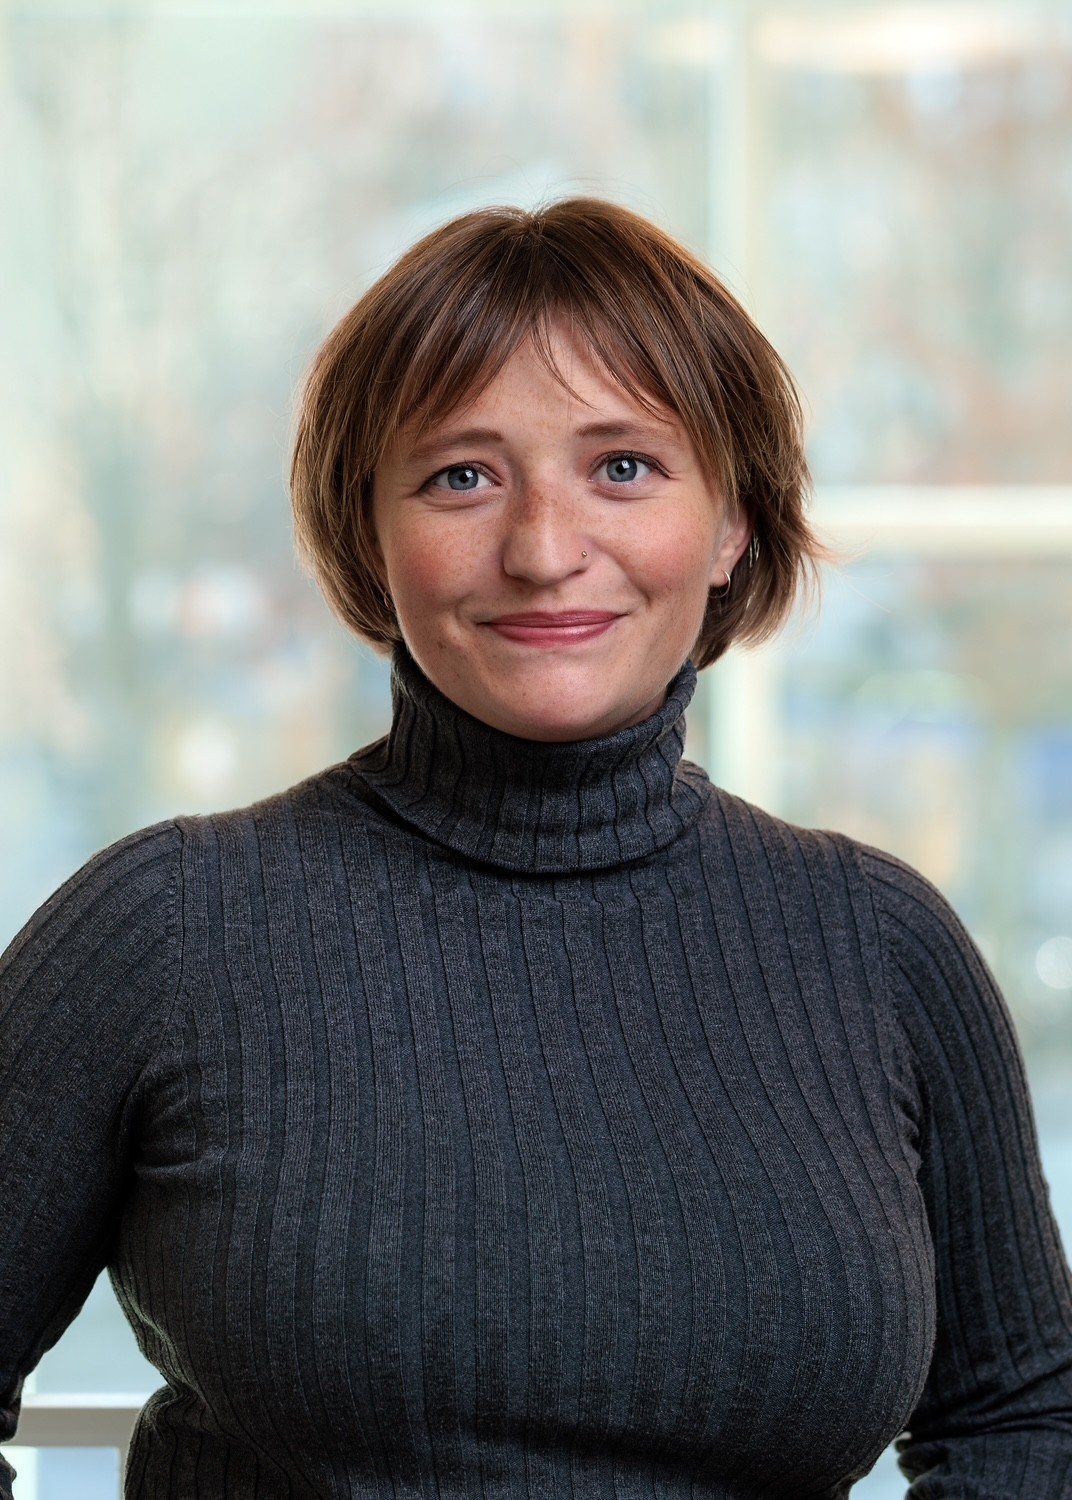
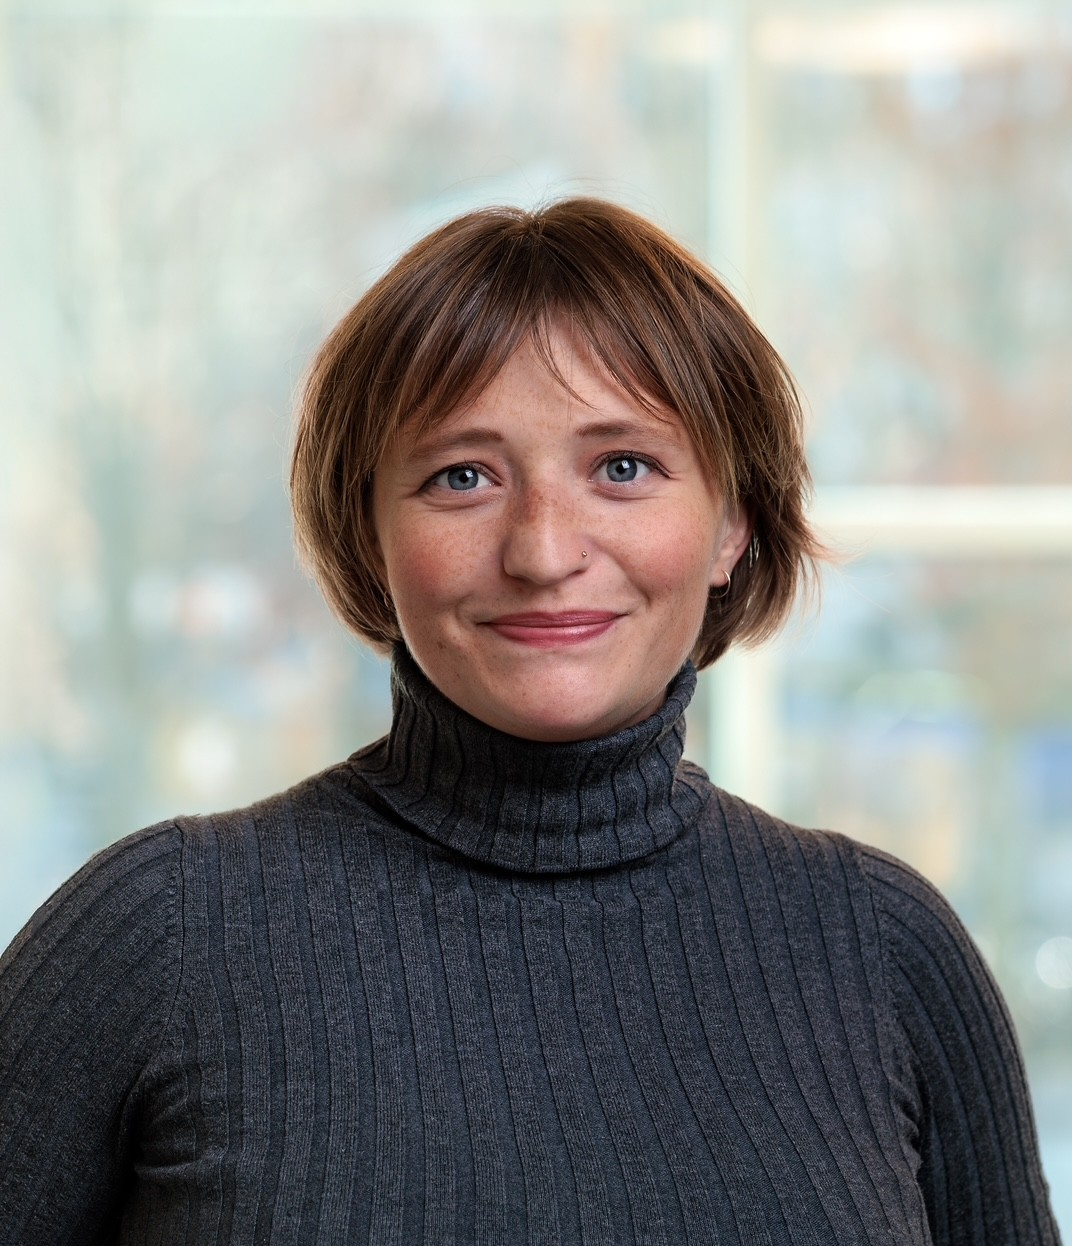
Update everything

diff --git a/docs/publications.html b/docs/publications.html
@@ -148,7 +148,6 @@ div.csl-indent {
   <li><a href="#peer-reviewed-publications" id="toc-peer-reviewed-publications" class="nav-link active" data-scroll-target="#peer-reviewed-publications">Peer-reviewed publications</a></li>
   <li><a href="#working-papers" id="toc-working-papers" class="nav-link" data-scroll-target="#working-papers">Working papers</a></li>
   <li><a href="#datasets-and-pre-registrations" id="toc-datasets-and-pre-registrations" class="nav-link" data-scroll-target="#datasets-and-pre-registrations">Datasets and Pre-Registrations</a></li>
-  <li><a href="#research-in-progress" id="toc-research-in-progress" class="nav-link" data-scroll-target="#research-in-progress">Research in progress</a></li>
   </ul>
 </nav>
     </div>
@@ -187,8 +186,9 @@ Yehle, Lauren, Aksel Sundström, Patrik Michaelsen, and Sverker C. Jagers. 2026.
 </section>
 <section id="working-papers" class="level2">
 <h2 class="anchored" data-anchor-id="working-papers">Working papers</h2>
-<p>Jagers, Sverker C., <strong>Lauren Yehle</strong>, Daniel Lindvall, Erik Elwing, and Niklas Harring. 2024. “Exploring How Specification of Revenue Use Shifts Attitudes Towards Climate Motivated Food Taxes.” Under review at <em>Food Policy</em>. https://doi.org/10.2139/ssrn.5060270. (under review at Food Policy)</p>
-<p>Metheney, Erica Ann, and <strong>Lauren Yehle</strong>. 2025. “Exploring the Potential Role of Generative AI in the TRAPD Procedure for Survey Translation.” arXiv. https://doi.org/10.48550/arXiv.2411.14472. (under review at Journal of Survey Statistics and Methodology)</p>
+<p>Constantino, Sara, Alicia Cooperman, Jessica Geiger, Manuela Munoz, Aksel Sundström, Ziqian Xia, <strong>Lauren Yehle</strong> ``The Political Costs and Benefits of Natural Disasters.” Under review at <em>American Political Science Review</em></p>
+<p>Jagers, Sverker C., <strong>Lauren Yehle</strong>, Daniel Lindvall, Erik Elwing, and Niklas Harring. 2024. “Exploring How Specification of Revenue Use Shifts Attitudes Towards Climate Motivated Food Taxes.” Under review at <em>Food Policy</em>. https://doi.org/10.2139/ssrn.5060270.</p>
+<p>Metheney, Erica Ann, and <strong>Lauren Yehle</strong>. 2025. “Exploring the Potential Role of Generative AI in the TRAPD Procedure for Survey Translation.” arXiv. https://doi.org/10.48550/arXiv.2411.14472.</p>
 <p>Metheney, Erica Ann, and <strong>Lauren Yehle</strong>. 2025. “Generative AI as a Safety Net for Survey Question Refinement.” arXiv. https://doi.org/10.48550/arXiv.2509.08702.</p>
 </section>
 <section id="datasets-and-pre-registrations" class="level2">
@@ -196,13 +196,6 @@ Yehle, Lauren, Aksel Sundström, Patrik Michaelsen, and Sverker C. Jagers. 2026.
 <p>Yehle, L., Sundström, A., Michaelsen, P., &amp; Jagers, S. (2025, December 23). Public support for military conservation. Retrieved from http://osf.io/kmazg</p>
 <p>Yehle, L., &amp; Michaelsen, P. (2024, October 25). Ethical Justification Effects on Environmental Policy Acceptance. Retrieved from http://osf.io/739pg</p>
 <p>Erica Ann Metheney; Lauren Yehle, 2024, “Replication Data for: Exploring Generative AI’s Role in Preparing Surveys for Translation”, https://doi.org/10.7910/DVN/HFT8TD, Harvard Dataverse, V1</p>
-</section>
-<section id="research-in-progress" class="level2">
-<h2 class="anchored" data-anchor-id="research-in-progress">Research in progress</h2>
-<ul>
-<li>Political feasibility of compensation for environmental policy.</li>
-<li>Distributional fairness and environmental policy support.</li>
-</ul>
 
 
 </section>

diff --git a/docs/teaching.html b/docs/teaching.html
@@ -127,7 +127,7 @@ ul.task-list li input[type="checkbox"] {
   <ul>
   <li><a href="#teaching-and-supervision" id="toc-teaching-and-supervision" class="nav-link active" data-scroll-target="#teaching-and-supervision">Teaching and Supervision</a>
   <ul class="collapse">
-  <li><a href="#lectures" id="toc-lectures" class="nav-link" data-scroll-target="#lectures">Lectures</a>
+  <li><a href="#teaching-duties" id="toc-teaching-duties" class="nav-link" data-scroll-target="#teaching-duties">Teaching duties</a>
   <ul class="collapse">
   <li><a href="#environmental-politics-in-theory-and-practice" id="toc-environmental-politics-in-theory-and-practice" class="nav-link" data-scroll-target="#environmental-politics-in-theory-and-practice"><em>Environmental Politics in Theory and Practice</em></a></li>
   <li><a href="#seascape-governance-in-times-of-global-change" id="toc-seascape-governance-in-times-of-global-change" class="nav-link" data-scroll-target="#seascape-governance-in-times-of-global-change"><em>Seascape Governance in Times of Global Change</em></a></li>
@@ -162,8 +162,8 @@ ul.task-list li input[type="checkbox"] {
 <section id="teaching-and-supervision" class="level1">
 <h1>Teaching and Supervision</h1>
 <p>I teach within the Department of Political Science at the University of Gothenburg at the Bachelors and Masters levels. I also teach interdisciplinary courses in the Masters Program Sea and Society affiliated with Department of Marine Sciences at the Faculty of Science and Technology.</p>
-<section id="lectures" class="level2">
-<h2 class="anchored" data-anchor-id="lectures">Lectures</h2>
+<section id="teaching-duties" class="level2">
+<h2 class="anchored" data-anchor-id="teaching-duties">Teaching duties</h2>
 <section id="environmental-politics-in-theory-and-practice" class="level3">
 <h3 class="anchored" data-anchor-id="environmental-politics-in-theory-and-practice"><em>Environmental Politics in Theory and Practice</em></h3>
 <p><em>Bachelor’s level, Department of Political Science, University of Gothenburg</em></p>
@@ -175,7 +175,7 @@ ul.task-list li input[type="checkbox"] {
 <h3 class="anchored" data-anchor-id="seascape-governance-in-times-of-global-change"><em>Seascape Governance in Times of Global Change</em></h3>
 <p><em>Master’s level, Department of Marine Sciences, University of Gothenburg</em></p>
 <ul>
-<li><strong>Politics of Climate Change</strong> <em>(Spring 2026)</em></li>
+<li><strong>Politics of Climate Change</strong> — Lecture <em>(Spring 2026)</em></li>
 </ul>
 </section>
 </section>
@@ -184,10 +184,11 @@ ul.task-list li input[type="checkbox"] {
 <p>I supervise master’s theses within political science, primarily in the areas of environmental politics and public opinion.</p>
 <table class="caption-top table">
 <colgroup>
-<col style="width: 26%">
-<col style="width: 41%">
-<col style="width: 17%">
-<col style="width: 14%">
+<col style="width: 23%">
+<col style="width: 35%">
+<col style="width: 15%">
+<col style="width: 12%">
+<col style="width: 12%">
 </colgroup>
 <thead>
 <tr class="header">
@@ -195,6 +196,7 @@ ul.task-list li input[type="checkbox"] {
 <th>Thesis Title</th>
 <th>Year</th>
 <th>Outcome</th>
+<th>Co-Supervisor</th>
 </tr>
 </thead>
 <tbody>
@@ -203,6 +205,7 @@ ul.task-list li input[type="checkbox"] {
 <td>Not Set in Concrete: An Experimental Vignette Study Testing if Conservation Policy Support is Robust to Trade-offs in Housing.</td>
 <td>2025</td>
 <td>Pass with Distinction</td>
+<td>Sverker C. Jagers</td>
 </tr>
 </tbody>
 </table>

diff --git a/docs/about.html b/docs/about.html
@@ -129,9 +129,9 @@ ul.task-list li input[type="checkbox"] {
 
 
 
-<p>This section needs to be updated… I am a PhD student in Political Science at the University of Gothenburg, Sweden. My research examines the political feasibility of environmental policy, with a particular focus on how compensation can increase support for ambitious climate action.</p>
-<p>My doctoral research investigates compensation from both elite and public perspectives. One project examines whether compensating industries that oppose climate policy can improve the political feasibility of climate reforms. A second explores how perceptions of deservingness shape public support for compensating groups that may bear the costs of environmental policy, such as unemployed workers and affected local communities.</p>
-<p>Alongside my dissertation, I work with Professor Aksel Sundström on the ERC-funded project <em>FEM-Lead</em>, conducting a meta-analysis of how natural disasters influence politically relevant outcomes, with a focus on electoral incumbency and institutional trust.</p>
+<p>This section needs to be updated… I am a PhD student in Political Science at the University of Gothenburg, Sweden. My research examines the political feasibility of environmental policy, with a particular focus on how compensation can increase support for ambitious climate and biodiversity action.</p>
+<p>My doctoral research investigates attitudes towards compensation from both elite and public perspectives. One project examines whether compensating industries that oppose climate policy can improve the political feasibility of climate reforms. A second explores how perceptions of deservingness shape public support for compensating groups that may bear the costs of environmental policy, such as unemployed workers and affected local communities.</p>
+<p>Alongside my dissertation, I work with Professor Aksel Sundström on the ERC-funded project <em>FEM-Lead</em>, conducting a meta-analysis of how natural disasters influence politically relevant outcomes, specifically electoral incumbency and institutional trust.</p>
 <p>Before beginning my PhD in 2025, I worked for nearly three years as a research assistant in the Departments of Political Science and Economics at the University of Gothenburg. I received an MSc in Political Science, specializing in Environmental Governance and Human Behavior, from the University of Gothenburg in 2023 (thesis awarded Pass with Distinction). I earned a BA in Political Science, with minors in Economics and History, from the University of Denver in 2019, graduating <em>summa cum laude</em> and as a member of Phi Beta Kappa.</p>
 <p>More broadly, my research interests include environmental politics, public opinion, environmental governance, and collective action. I am an organizer with the Centre for Environmental Political Studies (CEPS) at the University of Gothenburg and have contributed to organizing several research workshops, including <em>Closing the Legitimacy Gap</em> at NESS 2026.</p>
 <p>Please feel free to get in touch if you would like to discuss my research or potential collaborations.</p>

diff --git a/docs/research.html b/docs/research.html
@@ -125,9 +125,7 @@ ul.task-list li input[type="checkbox"] {
     <h2 id="toc-title">On this page</h2>
    
   <ul>
-  <li><a href="#research" id="toc-research" class="nav-link active" data-scroll-target="#research">Research</a>
-  <ul class="collapse">
-  <li><a href="#current-projects" id="toc-current-projects" class="nav-link" data-scroll-target="#current-projects">Current Projects</a>
+  <li><a href="#current-projects" id="toc-current-projects" class="nav-link active" data-scroll-target="#current-projects">Current Projects</a>
   <ul class="collapse">
   <li><a href="#dissertation" id="toc-dissertation" class="nav-link" data-scroll-target="#dissertation">Dissertation</a></li>
   <li><a href="#fem-lead" id="toc-fem-lead" class="nav-link" data-scroll-target="#fem-lead">FEM-Lead</a></li>
@@ -135,7 +133,6 @@ ul.task-list li input[type="checkbox"] {
   </ul></li>
   <li><a href="#research-interests" id="toc-research-interests" class="nav-link" data-scroll-target="#research-interests">Research Interests</a></li>
   <li><a href="#methods" id="toc-methods" class="nav-link" data-scroll-target="#methods">Methods</a></li>
-  </ul></li>
   </ul>
 </nav>
     </div>
@@ -161,9 +158,7 @@ ul.task-list li input[type="checkbox"] {
 </header>
 
 
-<section id="research" class="level1">
-<h1>Research</h1>
-<p>My research examines the political feasibility of environmental policy, with a particular focus on how compensation can facilitate ambitious climate action. Broadly, I study how governments can design environmental policies that are both effective and politically acceptable.</p>
+<p>My research examines the political feasibility of environmental policy, with a particular focus on how compensation can facilitate ambitious environmental policy. Broadly, I study how governments can design environmental policies that are both effective and politically acceptable.</p>
 <p>My work combines theories of political behavior, public opinion, and environmental governance to understand how citizens, organized interests, and policymakers respond to environmental policy.</p>
 <section id="current-projects" class="level2">
 <h2 class="anchored" data-anchor-id="current-projects">Current Projects</h2>
@@ -197,10 +192,9 @@ ul.task-list li input[type="checkbox"] {
 </section>
 <section id="methods" class="level2">
 <h2 class="anchored" data-anchor-id="methods">Methods</h2>
-<p>My work primarily employs quantitative methods, including survey experiments, causal inference, systematic reviews, and meta-analysis.</p>
+<p>My work primarily employs quantitative methods, including survey experiments, causal inference, systematic reviews, and meta-analysis. I have completed two courses at the Essex Summer School in Social Science Data Analysis: (1) Spatial Econometrics and (2) Causal Inference and Experiments in Social Science. I have additional training in systematic review and meta-analyses.</p>
 
 
-</section>
 </section>
 
 </main> <!-- /main -->

diff --git a/docs/index.html b/docs/index.html
@@ -164,8 +164,8 @@ ul.task-list li input[type="checkbox"] {
 
 <section id="about" class="level2">
 <h2 data-anchor-id="about">About</h2>
-<p>I am a PhD student in Political Science at the University of Gothenburg. I study the political feasibility of environmental policy. Specifically, I investigate how compensation for industry and inviduals can make ambitious environmental policies more acceptable among both organized interests and the public.</p>
-<p>My work combines public opinion research with political economy to understand how governments can design environmentally effective and politically feasible policies. Alongside my dissertation, I work on the ERC-funded project <em>Fem-LEAD</em>, studying how natural disasters shape political behavior and institutional and political trust.</p>
+<p>I am a PhD student in Political Science at the University of Gothenburg. I study the political feasibility of environmental policy. Specifically, I investigate how compensation for industry and individuals may make ambitious environmental policies more acceptable among both organized interests and the public.</p>
+<p>My work combines public opinion research with political economy to understand how governments can design politically feasible environmental policies. Alongside my dissertation, I work on the ERC-funded project <em>Fem-LEAD</em>, studying how natural disasters impacts political behavior and institutional and political trust.</p>
 </section>
 <section id="research-interests" class="level2">
 <h2 data-anchor-id="research-interests">Research interests</h2>
@@ -183,6 +183,7 @@ ul.task-list li input[type="checkbox"] {
 <ul>
 <li>Meta-Analysis</li>
 <li>Survey Experiments</li>
+<li>Experiment and Quasi-Experiments</li>
 <li>Cross Sectional Survey Analysis</li>
 </ul>
 
